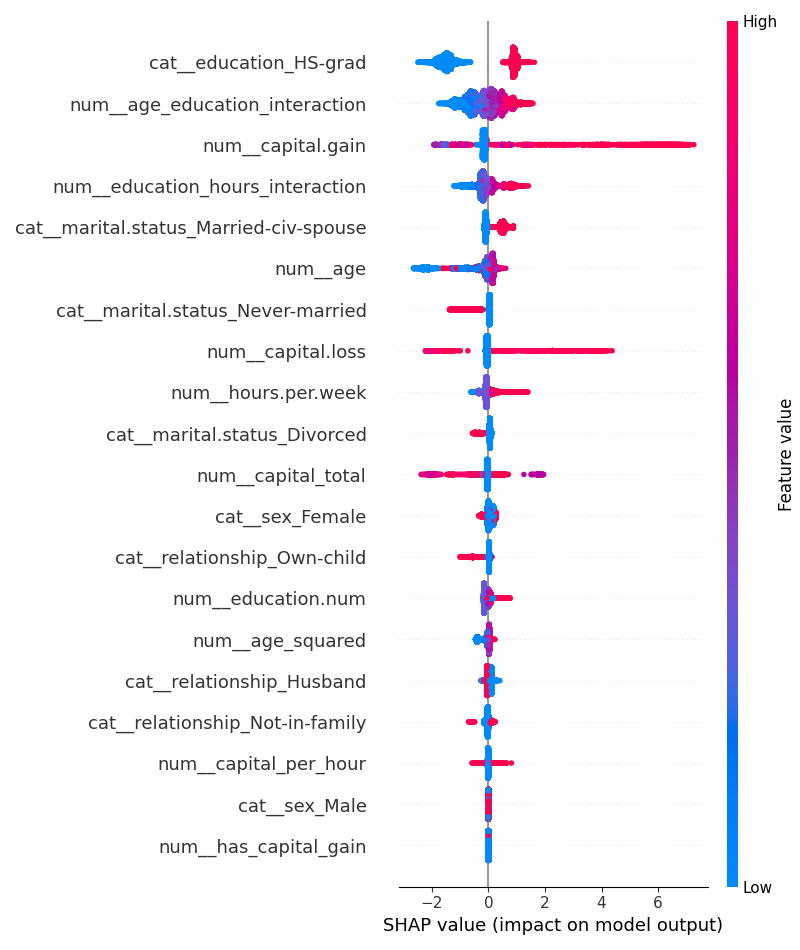
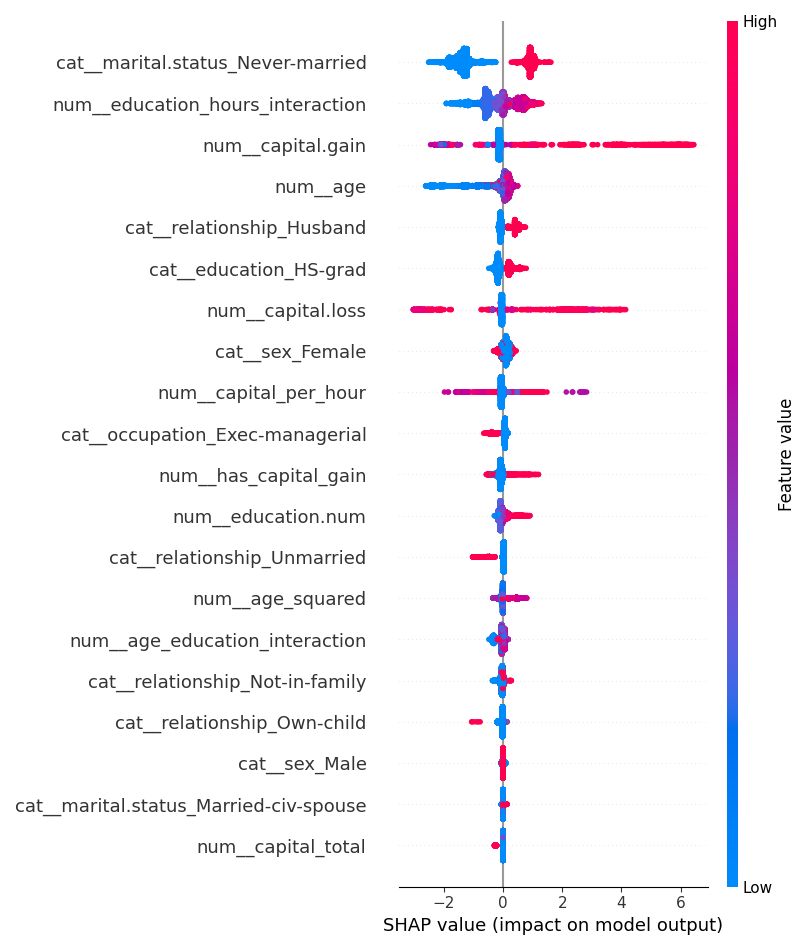
Add drift checker script and evaluation screenshots

diff --git a/Week6/src/monitoring/drift_checker.py b/Week6/src/monitoring/drift_checker.py
@@ -1,0 +1,43 @@
+import pandas as pd
+import os
+
+BASE_DIR = os.path.abspath(os.path.join(os.path.dirname(__file__), ".."))
+LOG_PATH = os.path.join(BASE_DIR, "prediction_logs.csv")
+
+def check_drift():
+    print("Running drift check...\n")
+
+    if not os.path.exists(LOG_PATH):
+        print("No prediction logs found.")
+        return
+
+    df = pd.read_csv(LOG_PATH)
+
+    if df.empty:
+        print("Prediction log is empty.")
+        return
+    df["prediction"] = pd.to_numeric(df["prediction"], errors="coerce")
+    df["probability"] = pd.to_numeric(df["probability"], errors="coerce")
+
+    df = df.dropna(subset=["prediction", "probability"])
+
+    if df.empty:
+        print("No valid prediction data available.")
+        return
+
+    mean_prob = df["probability"].mean()
+    positive_rate = df["prediction"].mean()
+
+    print(f"Average prediction probability: {mean_prob:.4f}")
+    print(f"Positive class rate: {positive_rate:.4f}")
+
+    if mean_prob < 0.2 or mean_prob > 0.8:
+        print("⚠ Warning: Prediction confidence drift detected.")
+
+    if positive_rate < 0.1 or positive_rate > 0.9:
+        print("⚠ Warning: Class distribution drift detected.")
+
+    print("\nDrift check completed.")
+
+if __name__ == "__main__":
+    check_drift()
